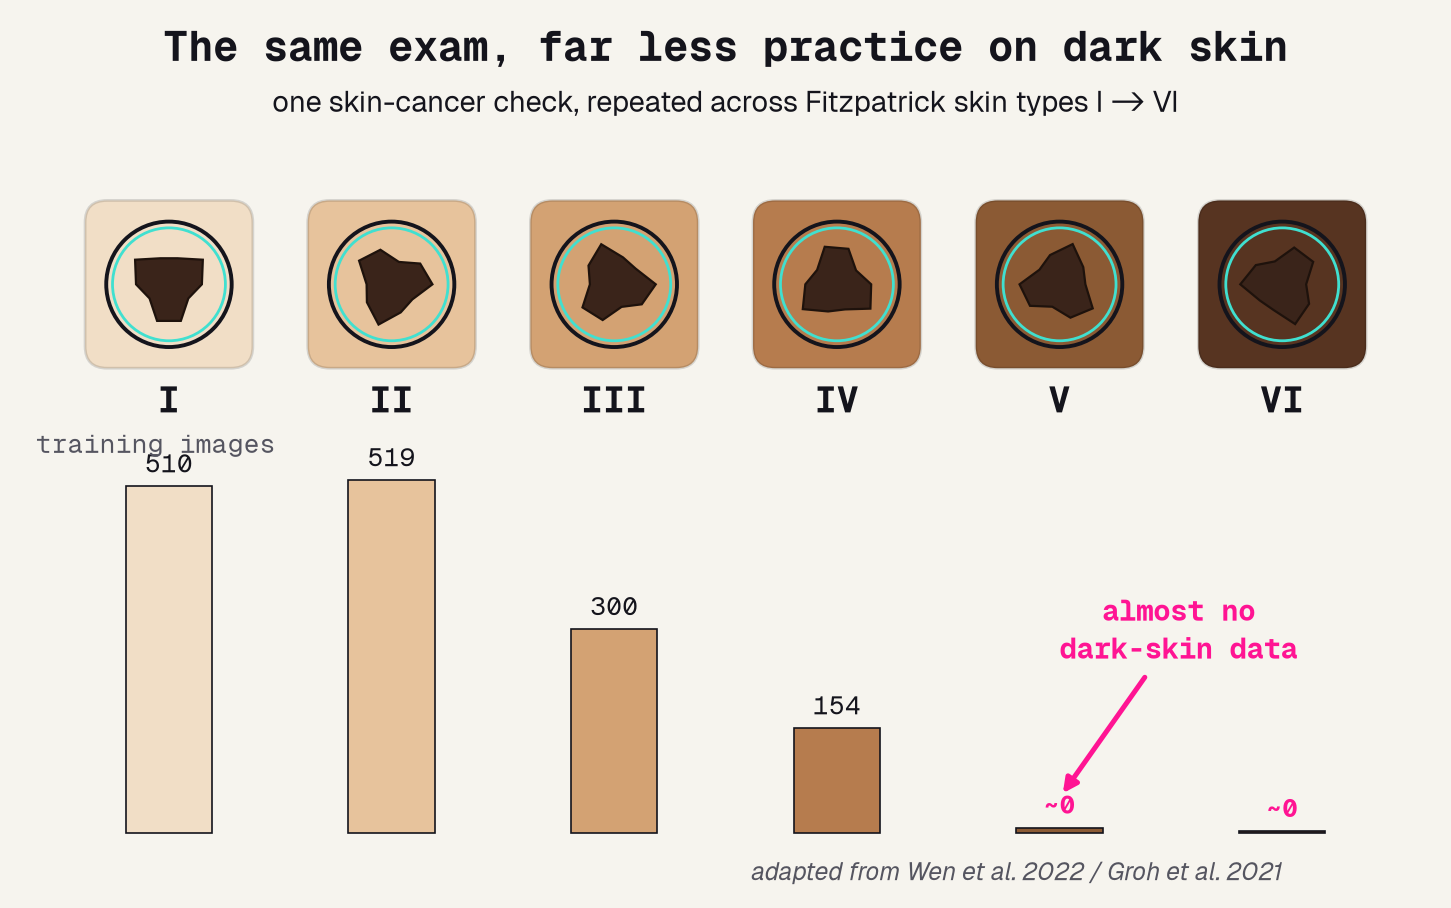
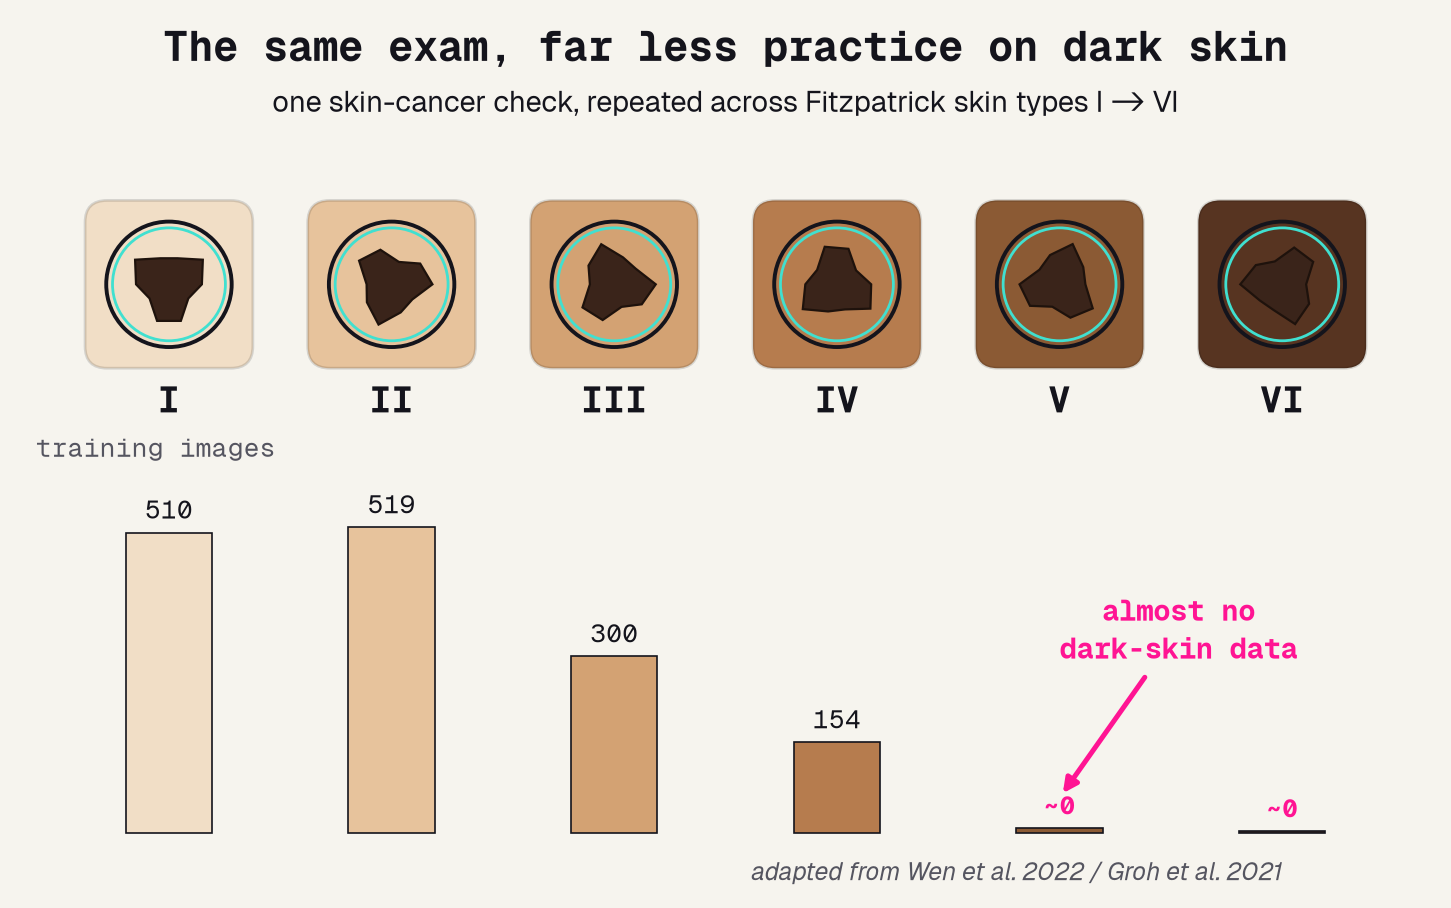
G4 figures: fix arrow overlapping '11' label + skin-tone-exam label collision; re-render deck

diff --git a/solutions/g4_skin_access/intro_figures.py b/solutions/g4_skin_access/intro_figures.py
@@ -42,7 +42,7 @@ def skin_tone_exam():
     patch_y = 7.7                                                   # vertical center of the skin patches
     r = 1.05                                                        # half-width of each square skin patch
     bar_bot = 0.7                                                   # baseline of the training-data bars
-    bar_max = 5.2                                                   # height of the tallest bar
+    bar_max = 4.6                                                   # height of the tallest bar (headroom for the axis label)
 
     ax.text(9.0, 10.55, "The same exam, far less practice on dark skin", ha="center", fontsize=15,
             family="Geist Mono", color=sf.INK, fontweight="bold")  # headline
@@ -75,8 +75,8 @@ def skin_tone_exam():
         ax.text(x, h + 0.18, lab, ha="center", fontsize=9.5, family="Geist Mono",
                 color=sf.DEEPPINK if rep <= 20 else sf.INK, fontweight="bold" if rep <= 20 else "normal")
 
-    ax.text(0.2, bar_max + 0.35, "training images", ha="left", fontsize=9.5,
-            family="Geist Mono", color=sf.MUTED)                   # y-axis-style label for the bar zone
+    ax.text(0.2, 5.5, "training images", ha="left", fontsize=9.5,
+            family="Geist Mono", color=sf.MUTED)                   # y-axis-style label, clear above the bar-count numbers
 
     # call out the near-empty dark end (V-VI), pointing at those tiny bars
     darkx = (xs[4] + xs[5]) / 2                                     # midpoint of the V and VI columns

diff --git a/solutions/g4_skin_access/regen_figures.py b/solutions/g4_skin_access/regen_figures.py
@@ -43,8 +43,9 @@ def tone_distribution():
                 fontsize=13 if crisis else 11, family="Geist Mono",
                 color=sf.DEEPPINK if crisis else sf.INK, fontweight="bold")
     # call out the dark bar: 11 patients is far too few to validate a screen on
+    # arrow lands on the LEFT edge/top of the tiny dark bar, clear of the centered "11" count label
     ax.annotate("only 11 patients --\nyou cannot validate\na screen on this",
-                xy=(2, 11), xytext=(1.35, 430), fontsize=10.5, family="Geist Mono",
+                xy=(1.72, 11), xytext=(1.35, 430), fontsize=10.5, family="Geist Mono",
                 color=sf.DEEPPINK, va="center",
                 arrowprops=dict(arrowstyle="-|>", color=sf.DEEPPINK, lw=1.8))
     ax.set_ylabel("patients in the dataset")